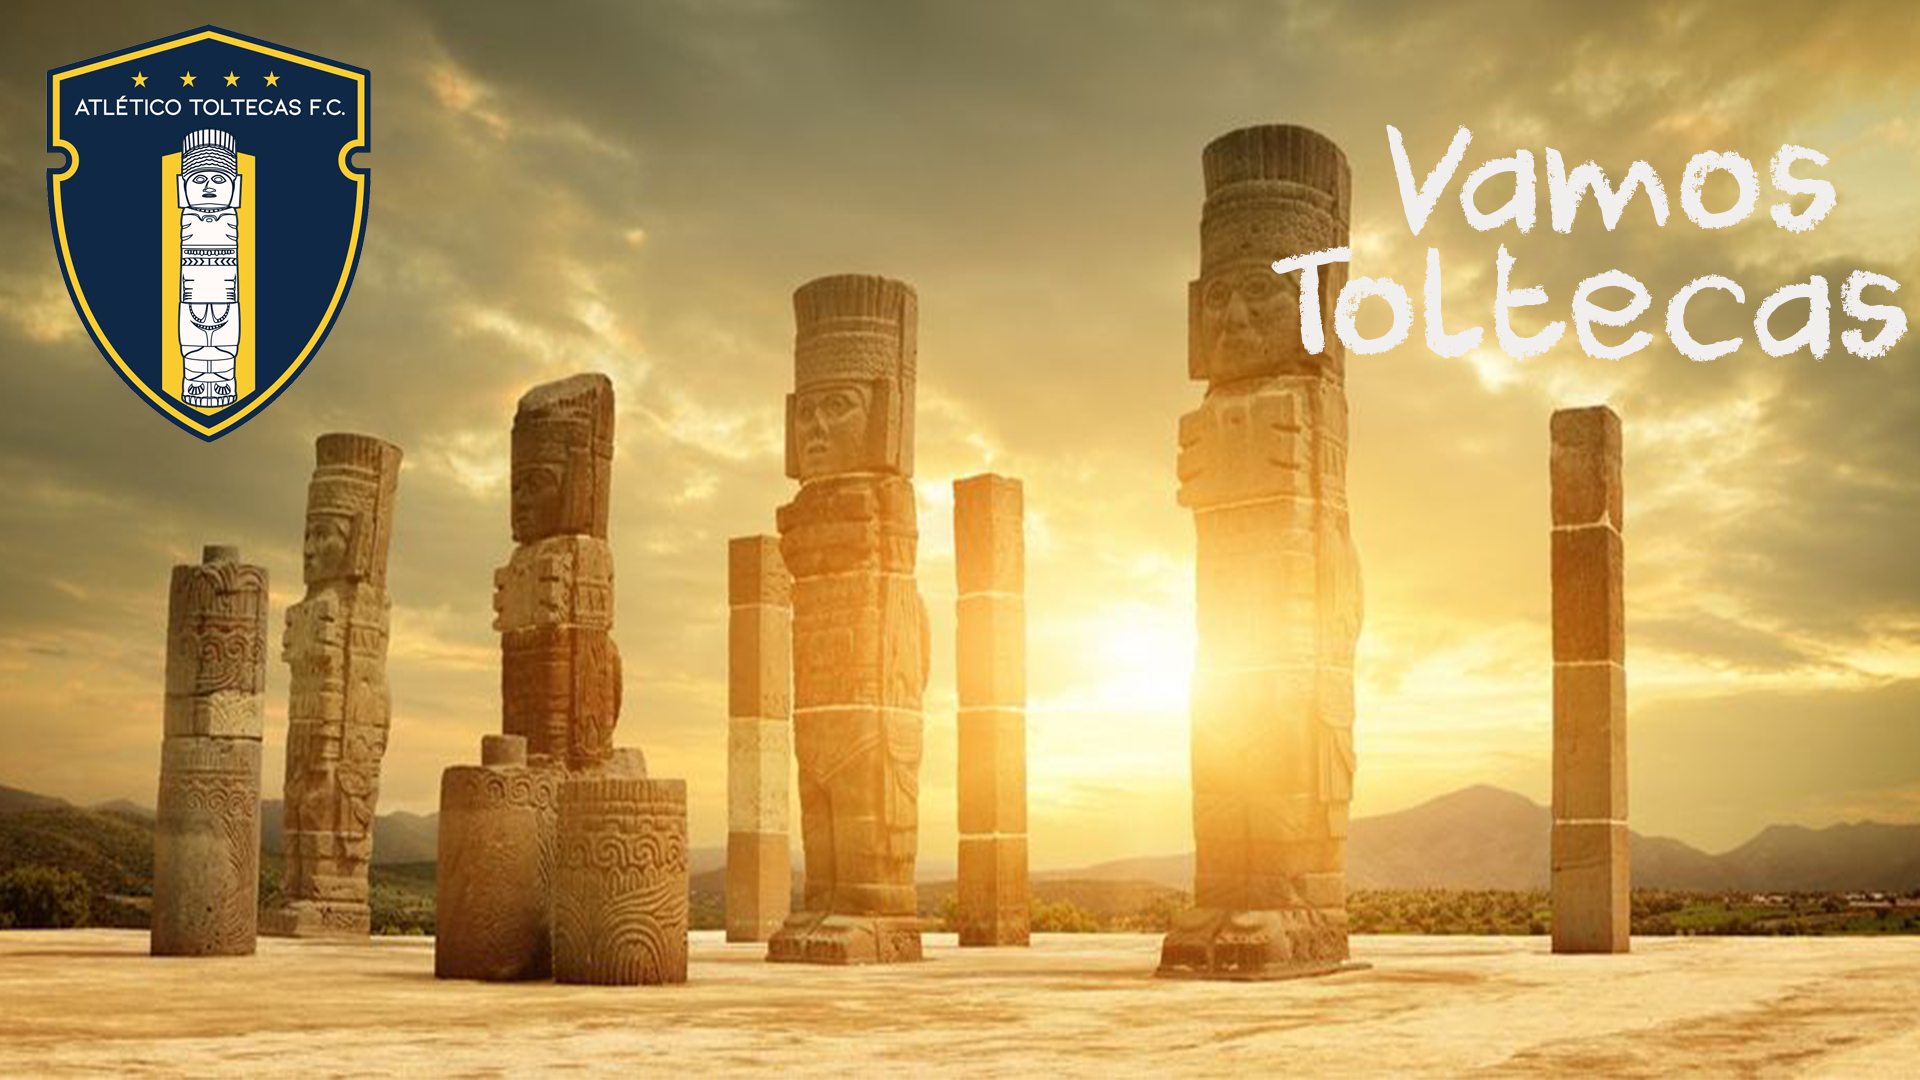
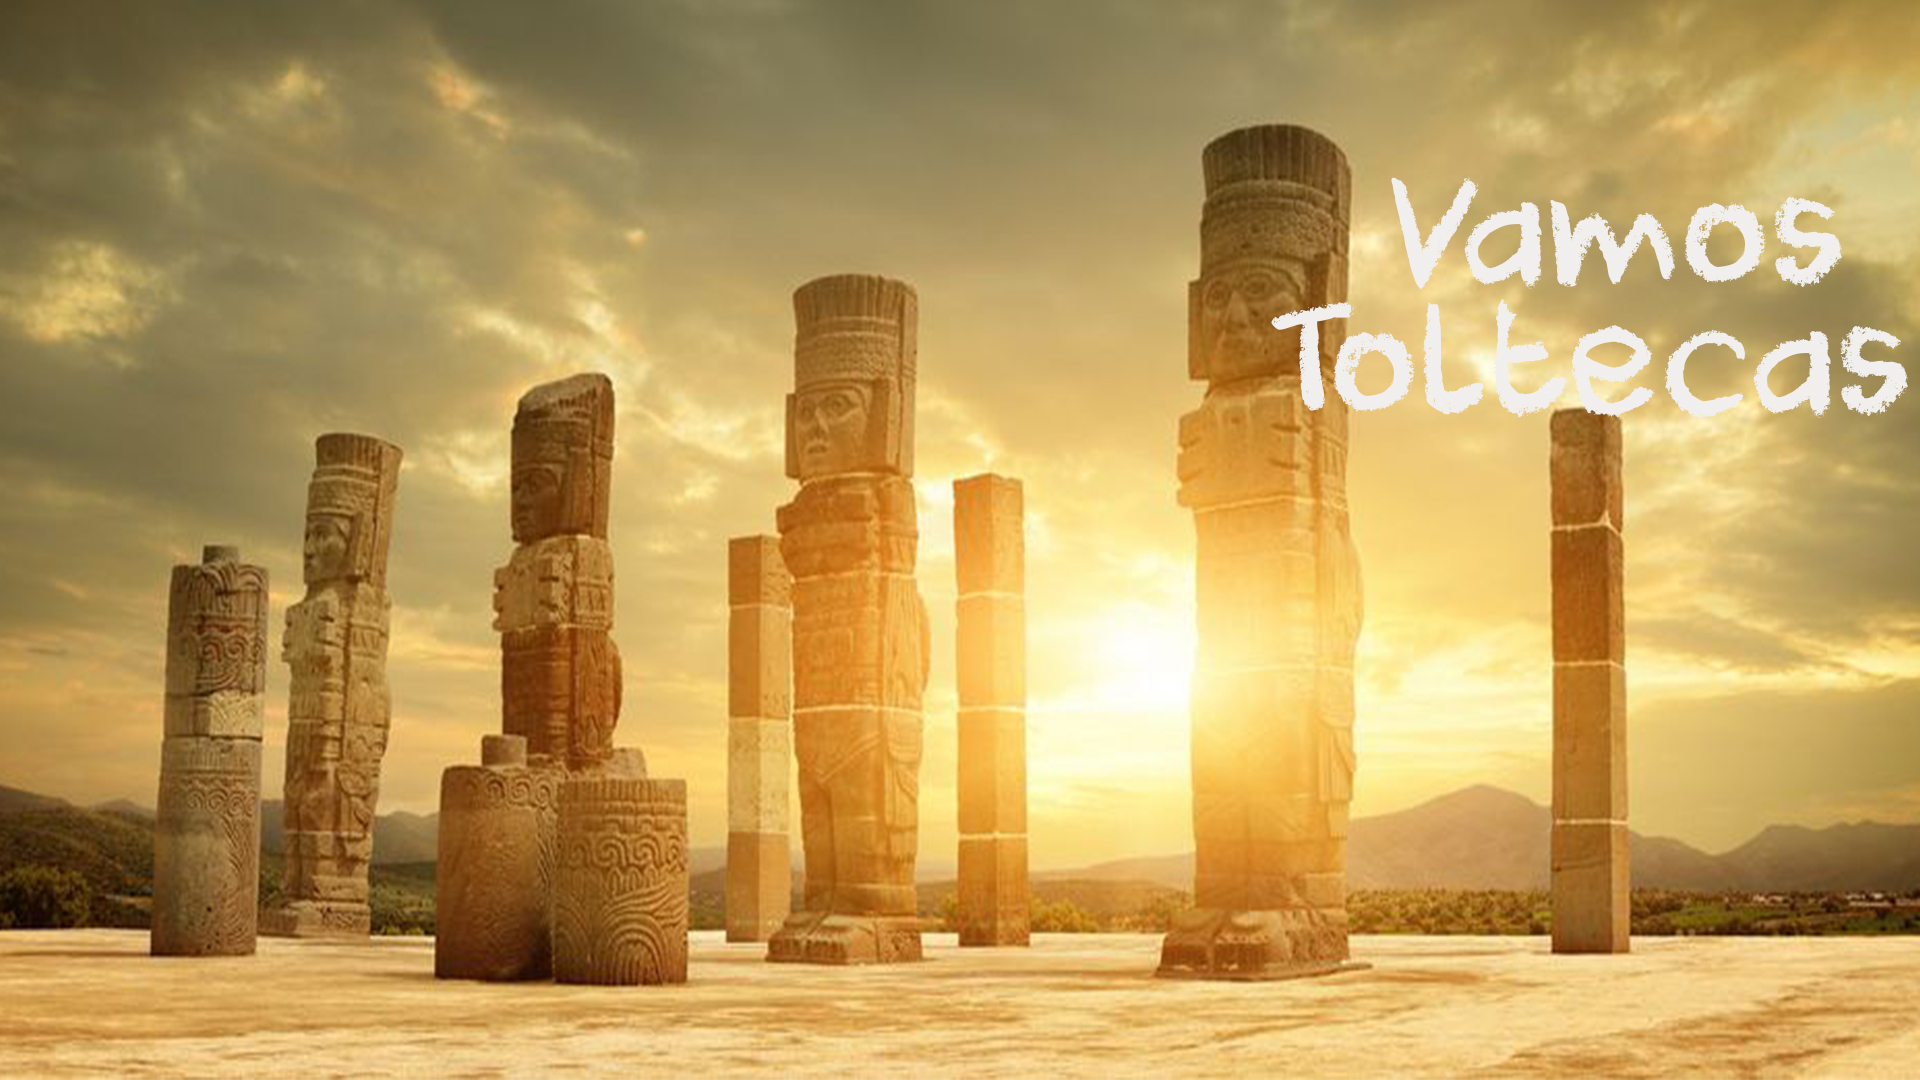
Add files via upload

Changed region(s): [[0.6562, 0.1222, 1.0, 0.3972], [0.0, 0.0, 0.2188, 0.4278]]

diff --git a/portada.html b/portada.html
@@ -98,7 +98,10 @@
             <a href="#Patrocinadores">Patrocinadores</a>
             <a href="/formulario.html" >Contacto</a>
         </nav>
+
+        <img class="logotol" src="img/logotol.png"  alt"">
         <section class="textos-header">
+            <br><br>
             <h1>Preparandonos Para La Proxima Temporada</h1>
             <h2>Con Toda La Pasion</h2>
         </section>
@@ -179,7 +182,7 @@
 
             <h2 class="titulo">Somos Toltecas</h2>
         
-            <p class="page-description text-center">ATletico Toltecas FC</p>
+            <p class="page-description text-center"></p>
             
             <div class="tz-gallery">
         

diff --git a/css/estilos.css b/css/estilos.css
@@ -26,6 +26,13 @@ body {
 
 /* Header */
 
+.logotol {
+    left: 0;
+    top: 0;
+    width: 200px;
+    position: absolute;
+}
+
 header {
     width: 100%;
     height: 600px;
@@ -69,7 +76,7 @@ header .textos-header{
 
 
 .textos-header h1{
-    font-size: 65px;
+    font-size: 50px;
     color:#ffffff;
 }
 
@@ -96,7 +103,8 @@ main .sobre-nosotros{
 }
 
 .imagen-about-us{
-    width: 30%;
+    width: 20%;
+    padding-top: 20px;
     padding-right: 20px;
 }
 

diff --git a/index.html b/index.html
@@ -11,15 +11,7 @@
 </head>
 <body>
     <header class="header">
-    <a href="#" class="logo"></a>
-
-        <nav class="navbar">
-        <a href="index.html">Inicio</a>
-        <a href="#">About</a>
-        <a href="#">Services</a>
-        <a href="#">Portafolio</a>
-        <a href="#">Contacto</a>
-        </nav>
+    
     </header>
 <section class="home">
     <div class="container-header">

diff --git a/css/style.css b/css/style.css
@@ -74,7 +74,7 @@
 .slider{
     
     width: 100%;
-    height: 800px;
+    height: 200px;
     overflow: hidden;
   }
   .slider ul{
